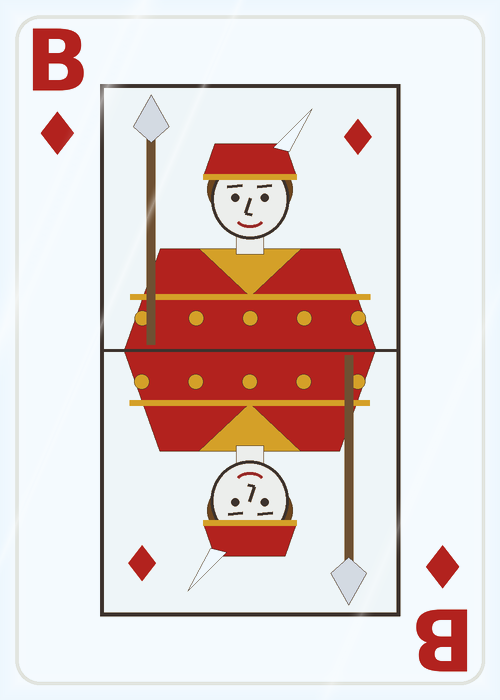
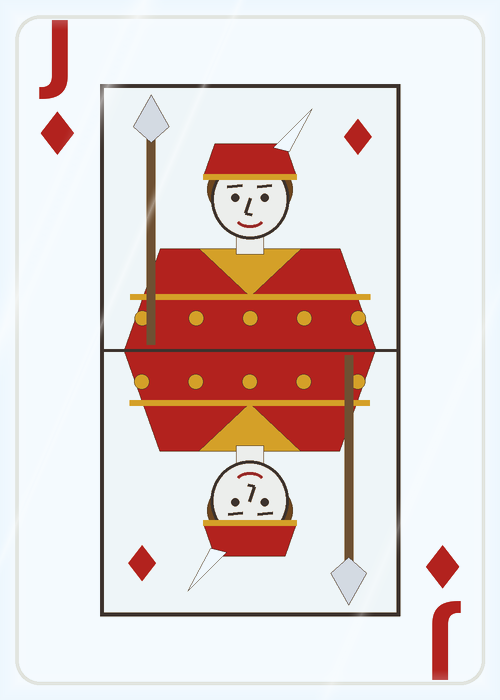
Schärfere Karten: 3D in voller Bildschirmauflösung rendern, 16× anisotrop; Bube als J
Claude-Session: https://claude.ai/code/session_01DR4TC7R9ZinJH7TK3fPuxS

Changed region(s): [[0.81, 0.84, 0.96, 0.99], [0.06, 0.03, 0.18, 0.15]]

diff --git a/tools/generate_cards.py b/tools/generate_cards.py
@@ -33,7 +33,7 @@ FRAME_BG = (240, 228, 200)
 LINE = (60, 50, 45)
 
 SUITS = {"h": ("♥", RED), "d": ("♦", RED), "c": ("♣", BLACK), "s": ("♠", BLACK)}
-RANK_TEXT = {6: "6", 7: "7", 8: "8", 9: "9", 10: "10", 11: "B", 12: "D", 13: "K", 14: "A"}
+RANK_TEXT = {6: "6", 7: "7", 8: "8", 9: "9", 10: "10", 11: "J", 12: "D", 13: "K", 14: "A"}
 
 # Positionen der Symbole (x, y) relativ zur Karte, klassische Anordnung
 L, C, R = 0.31, 0.5, 0.69
